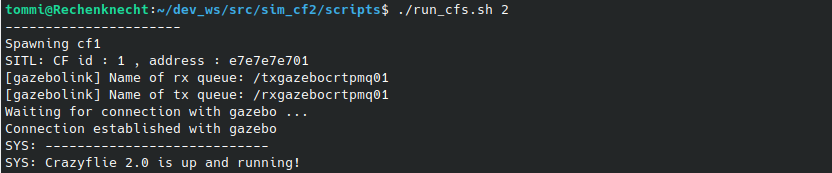
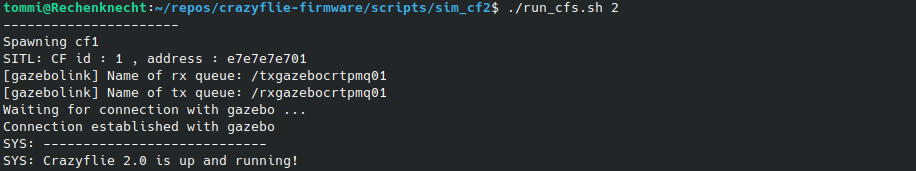
Move run_cfs.sh script to crazyflie-firmware repository

diff --git a/README.md b/README.md
@@ -76,13 +76,6 @@ Running the simulation requires
 * Crazyflie firmware compiled for SITL
 * Crazyflie python library installed containing the *simlink* driver
 
-### Add Path to Crazyflie Firmware Executable
-
-Open the *run_cfs.sh* script located in *sim_cf2/scripts* and add the path to the *cf2.elf* in your crazyflie-firmware repository
-
-![run_cf_script_path_to_executable](images/add_path_to_cf_executable.png)
-
-
 ### Adjust the Launch Script
 
 The number of simulated Crazyflies is determined by the main launch file *main.launch.xml* in the *sim_cf2/launch* folder. By default, two Crazyflies are simulated and code for the instantiation of four further Crazyflies is present but commented out. Adjust the launch file to your needs by adding or removing Crazyflies. Initial pose and rotor color is set in the *main.launch.xml* file.
@@ -109,13 +102,14 @@ Gazebo will start in paused mode and will try to establish a connection to the s
 
 ### 2. Run Crazyflie Firmware SITL Instances
 
-Open a new terminal and move to the scripts folder of the *sim_cf2* repository (assuming ~/dev_ws/src/sim_cf2)
+Open a new terminal and move to the scripts/sim_cf2 folder in the Crazyflie firmware repository (assuming ~/repos/crazyflie-firmware)
 
 ```sh
-cd ~/dev_ws/src/sim_cf2/scripts
+cd ~/repos/crazyflie-firmware/scripts/sim_cf2
 ```
 
 Run the *run_cfs.sh* script with as many instances of simulated Crazyflies as needed by providing the amount of Crazyflies as argument (e.g. two)
+
 ```sh
 ./run_cfs.sh 2
 ```
